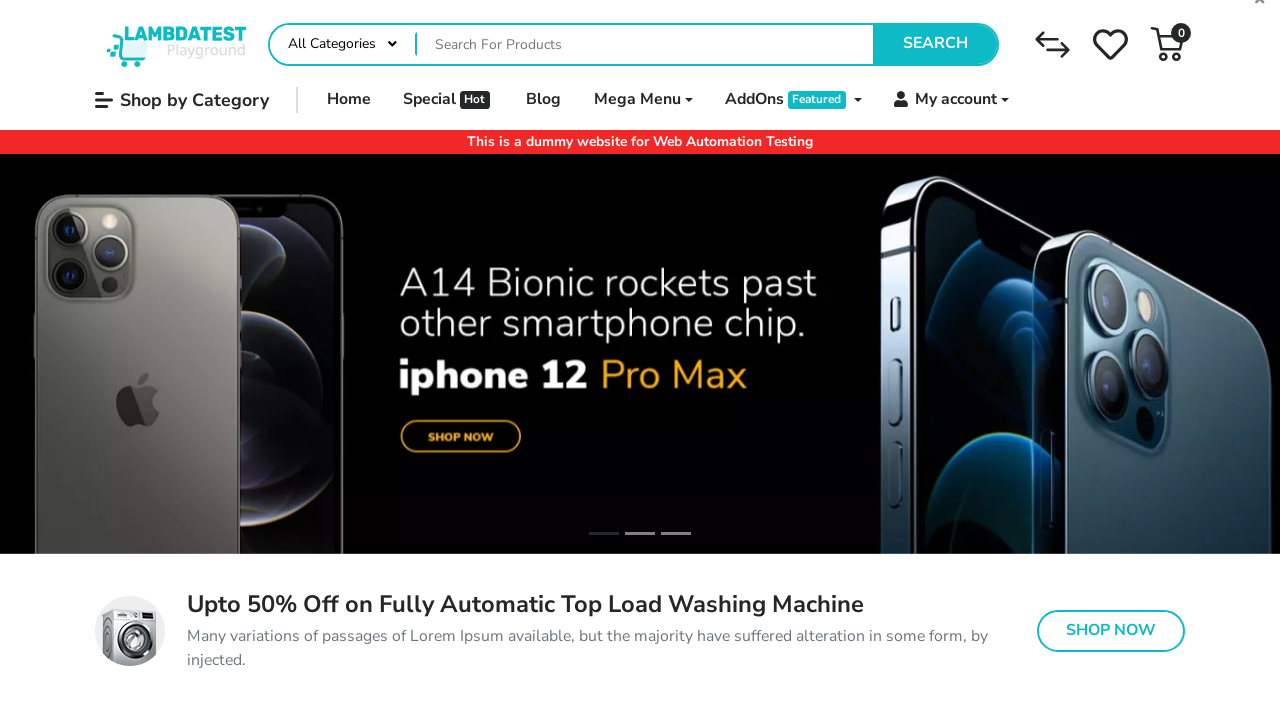
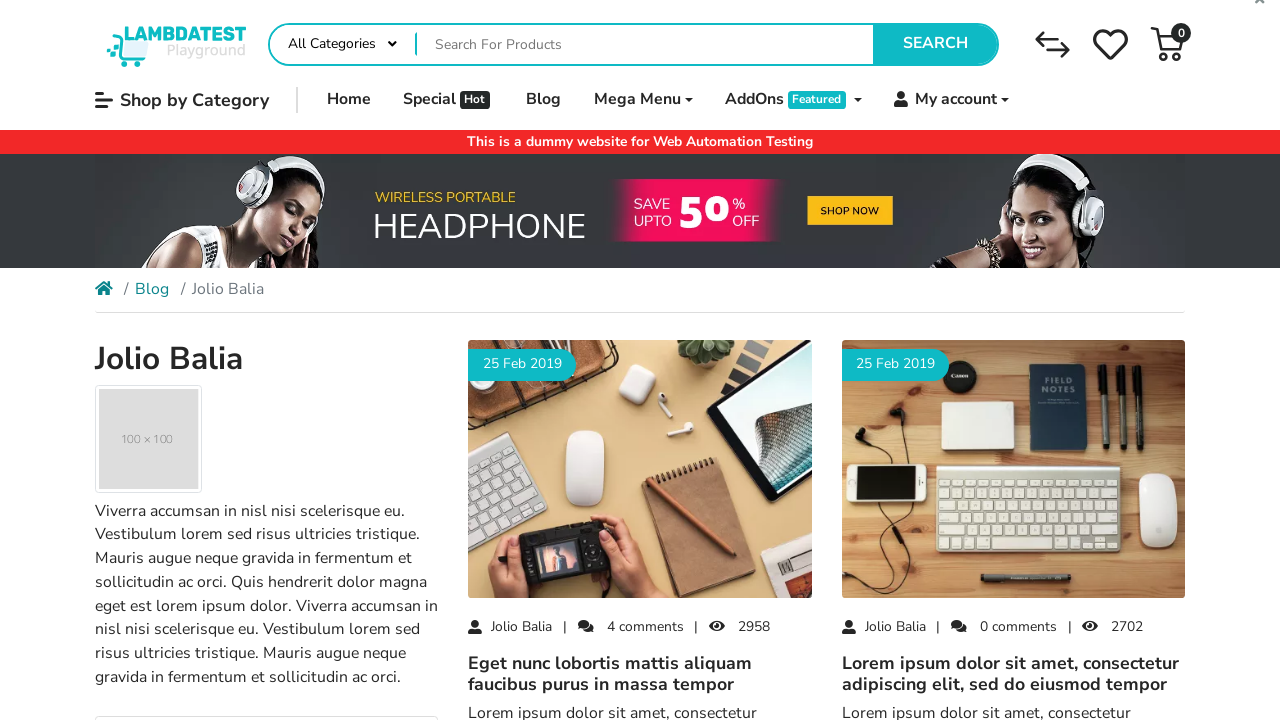
test

diff --git a/LambdaTest/navigation.py b/LambdaTest/navigation.py
@@ -75,12 +75,15 @@ async def run4(playwright: Playwright):
     page = await browser.new_page()
     await page.goto("https://ecommerce-playground.lambdatest.io/")
     # await page.get_by_text("Continue", exact=True).click()
-    await page.wait_for_event("load")
+    await page.get_by_role("link", name='Jolio Balia', exact=True).nth(1).click()
+    await page.wait_for_function(
+        "() => new Promise(resolve => setTimeout(resolve, 25000))"
+    )
     await page.screenshot(path="screenshot.png")
-    # buttonss = await page.get_by_role("button").all()
+
     # buttons = buttonss[:8]
-    # # for i in buttons:
-    # #     print(await i.inner_text())
+    # for i in buttonss:
+    #     print(await i.inner_text())
     # # print("Done")
     print("Done")
     await browser.close()
